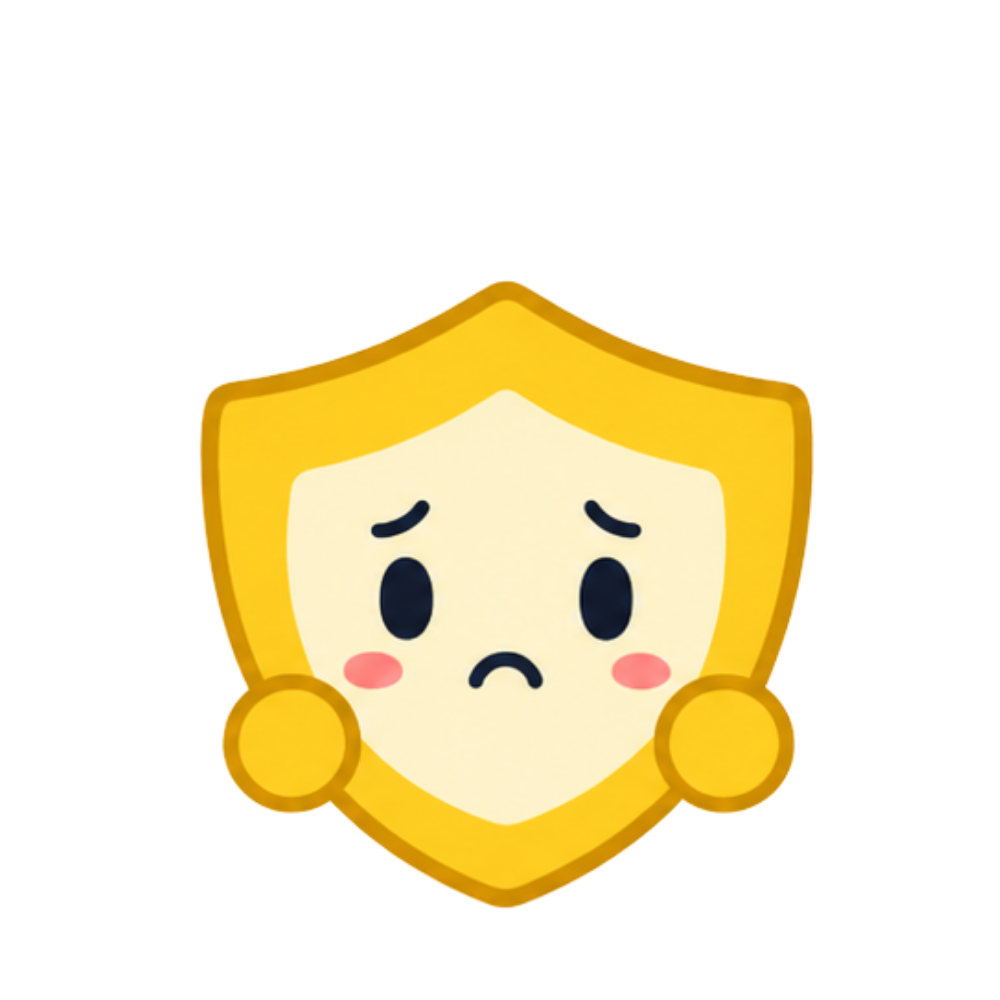
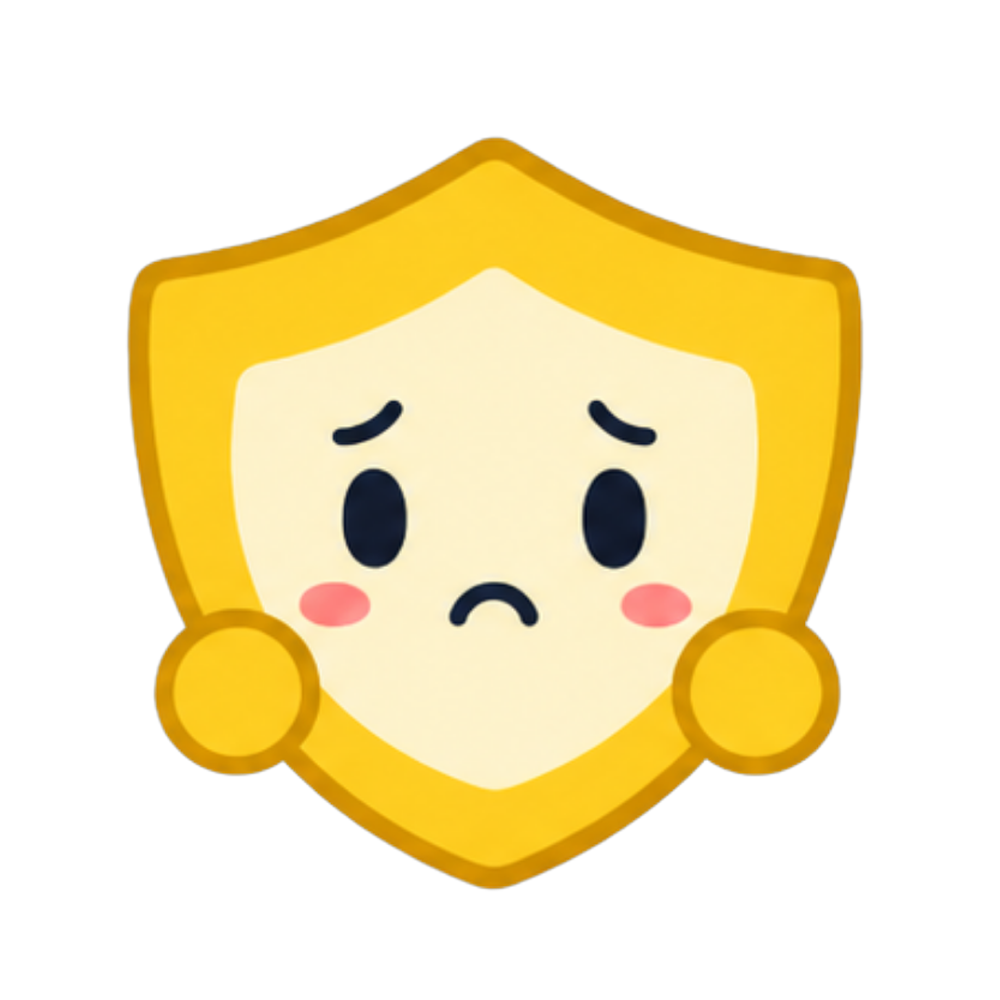
Shield Buddy about 1.5x bigger, and centred
The six images are scaled 1.2x around the character and centred (the same
for every mood, so Buddy doesn't jump), and Buddy is shown 1.25x bigger on
every screen.

Changed region(s): [[0.124, 0.124, 0.868, 0.93], [0.465, 0.651, 0.558, 0.713]]

diff --git a/src/index.css b/src/index.css
@@ -95,8 +95,8 @@ button:active {
 
 .buddy-image {
   flex: none;
-  width: 128px;
-  height: 128px;
+  width: 160px;
+  height: 160px;
   /* The artwork has empty space around the shield */
   margin: -16px -12px -20px;
 }
@@ -320,8 +320,8 @@ button:active {
 }
 
 .menu .buddy-image {
-  width: 160px;
-  height: 160px;
+  width: 200px;
+  height: 200px;
 }
 
 .menu-steps {
@@ -728,13 +728,13 @@ button:active {
   }
 
   .buddy-image {
-    width: 96px;
-    height: 96px;
+    width: 120px;
+    height: 120px;
   }
 
   .menu .buddy-image {
-    width: 128px;
-    height: 128px;
+    width: 160px;
+    height: 160px;
   }
 }
 

diff --git a/src/chat/chat.css b/src/chat/chat.css
@@ -43,8 +43,8 @@
 
 .ask-avatar {
   display: block;
-  width: 64px;
-  height: 64px;
+  width: 80px;
+  height: 80px;
 }
 
 .ask-group-buddy .buddy-body {
@@ -216,8 +216,8 @@
 
 @media (max-width: 560px) {
   .ask-avatar {
-    width: 48px;
-    height: 48px;
+    width: 60px;
+    height: 60px;
   }
 
   .ask-options .option-card,

diff --git a/src/screens/results.css b/src/screens/results.css
@@ -106,8 +106,8 @@
 }
 
 .outcome-main .buddy-image {
-  width: 150px;
-  height: 150px;
+  width: 190px;
+  height: 190px;
 }
 
 .outcome-others {
@@ -346,8 +346,8 @@ mark.flag {
   }
 
   .outcome-main .buddy-image {
-    width: 110px;
-    height: 110px;
+    width: 138px;
+    height: 138px;
   }
 
   .stepper-hint {
